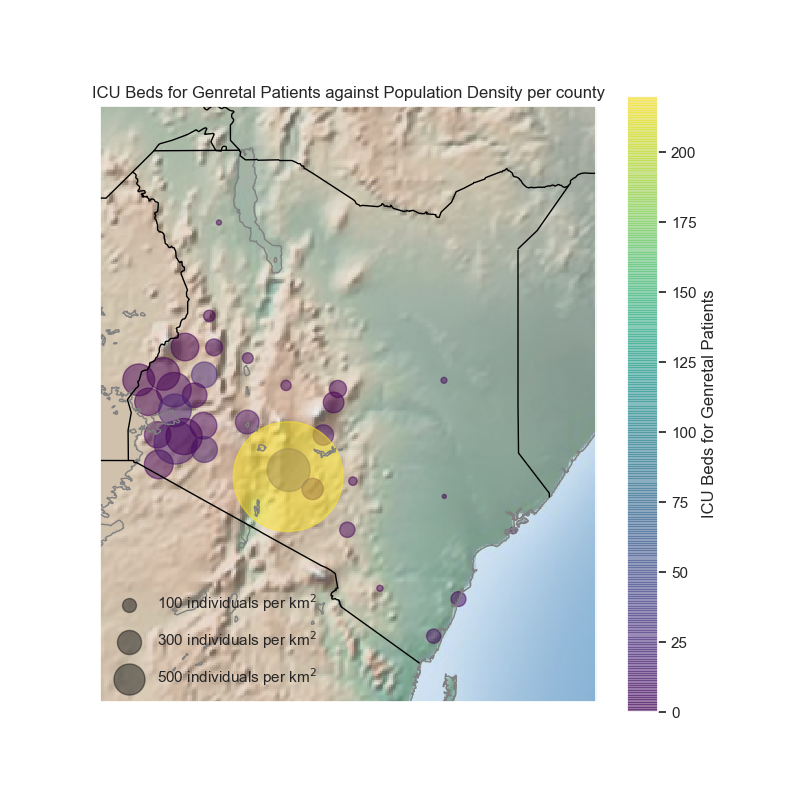
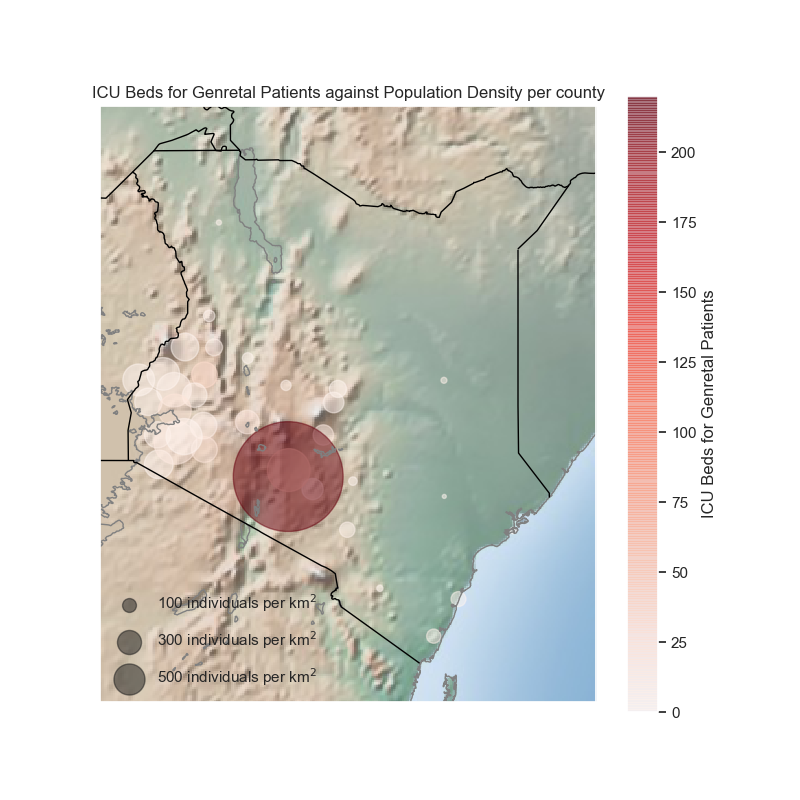
Included county names on plots

diff --git a/kenya_covid_visualizations.py b/kenya_covid_visualizations.py
@@ -7,13 +7,14 @@ sns.set()
 import matplotlib.pyplot as plt
 import pandas as pd
 import numpy as np
+from matplotlib.widgets import TextBox
 
 # Get directory containing epsg file for Basemap import to work
 import os
 os.environ["PROJ_LIB"] = 'C:\\Users\\nderi\\.conda\\pkgs\\proj4-5.2.0-ha925a31_1\\Library\\share'
 from mpl_toolkits.basemap import Basemap
 
-def draw_map(lons, lats, pop_density, var_tested, colorbar_label, directory="", colorbar_scheme=""):
+def draw_map(lons, lats, pop_density, var_tested, colorbar_label, directory="", colorbar_scheme="", counties_below=None):
     ''' 
     Draws scatterplot Basemap map of Kenya and saves plot in given directory path
     
@@ -25,19 +26,18 @@ def draw_map(lons, lats, pop_density, var_tested, colorbar_label, directory="", 
         colorbar_label: String representing the colorbar title
         directory: (Optional) string, directory path for saving file
         colorbar_scheme: (Optional) string, scheme for colorbar
-
+        counties_below: (Optional) numpy values, counties below benchmark
     Returns:
         None
     '''
-
     # Draws background map of Kenya.
     _ = plt.figure(figsize=(8,8))
+
     m = Basemap(projection='lcc', lat_0=0.0236, lon_0=37.9062, width=1E6
     , height=1.2E6, resolution='h')
     m.shadedrelief()
     m.drawcoastlines(color='gray')
     m.drawcountries(color='black', linewidth=1.0)
-    # m.fillcontinents(lake_color="aqua", zorder=0)
 
     # Draw scatterplot on the Basemap figure and include colorbar, legend
     m.scatter(lons, lats, latlon=True, c=var_tested, s=pop_density, cmap=colorbar_scheme, alpha=0.5)
@@ -47,17 +47,32 @@ def draw_map(lons, lats, pop_density, var_tested, colorbar_label, directory="", 
     plt.legend(scatterpoints=1, frameon=False,
                labelspacing=1, loc='lower left')
 
+    # Format counties string and annotate counties below recommended on the basemap projection
+    if len(counties_below) > 0:
+        counties_str_formatted = ""
+        for i in range(len(counties_below)):
+            counties_str_formatted += counties_below[i]
+            if i != len(counties_below) - 1:
+                counties_str_formatted += ", "
+            if i % 3 == 0:
+                counties_str_formatted += '\n'
+        counties = "Counties below recommended:\n" + counties_str_formatted
+        
+        bbox_props = dict(fc='white', ec='green', lw=1, boxstyle='round,pad=0.1', alpha=0.2)
+        plt.annotate(counties, m(39,2.5), xytext=m(40,2.5), fontsize=8,
+             fontname='Arial', color='black', ha='center', va='center',
+            bbox= bbox_props)
+
     # Set plot title and save/show figure
     plt.title(colorbar_label + " against Population Density per county")    
     plt.savefig(directory + colorbar_label + " against Population density")
-
 
 
 if __name__ == "__main__":
     # Extract first dataset
     amenities_dataset = pd.read_excel("Kenya Covid-19 Need Map - Amenities Count.xlsx", sheet_name="Sheet1")
 
-    # Columns of interest in the first dataset
+    # # Columns of interest in the first dataset
     columns_to_visualize = ["# of Hospitals (Level 4,5,6)",
                             "# of Hospital Beds",
                             "# of ICU Beds",
@@ -83,13 +98,14 @@ if __name__ == "__main__":
     # Visualize covid-19 preparedness benchmark per Kenyan county
     for col in preparedness_dataset.columns:
         if col != "County":
+            counties_below = modified_dataset[modified_dataset[col] < 0]["County"].values
             draw_map(modified_dataset["Longitude"].values,
                      modified_dataset["Latitude"].values,
                      modified_dataset["Population Density"].values,
                      modified_dataset[col].values,
                      col,
                      "Covid-19 Preparedness Check in Kenya Visualized\\",
-                     "viridis")
+                     "Reds", counties_below)
 
 
 

diff --git a/README.md b/README.md
@@ -1,21 +1,8 @@
 # Covid-Tracking-in-Kenya-Apr-2020-Basemap-Visualization
-## Description
-I volunteered to help visualize the level of need and preparedness in relation to Covid-19 for one of my acquaintances. Having just learned about Matplotlib's Basemap at that time, I thought to try out some Basemap visualizations.  
+I volunteered to help visualize the level of need and preparedness in relation to Covid-19 for one of my acquaintances. 
+Having just learned about Basemap at that time, I thought to try out some Basemap visualizations. The source code can be found in kenya_covid_visualizations.py and the visualizations in the two different folders. In the first folder, I visualized the number of a certain amenity or facility, e.g. Number of Hospitals, 
+per county. In the second folder, I played around with visualizing whether the number of amenities present met the required benchmark. Datasets and source code used are both included. 
 
-## Datasets used
-Two datasets used: "Kenya Covid 19 Need Map - Amenities Count.xlsx" and "Kenya Covid 19 Need Map - Preparedness Benchmark met.xlsx". 
-
-"Kenya Covid 19 Need Map - Amenities Count.xlsx" contains data per county for variables such as Latitude, Longitude, Population Density, Number of Hospitals per 100k, Number of ICU beds, Number of Ventilators and so on. 
-
-"Kenya Covid 19 Need Map - Preparedness Benchmark met.xlsx" contains data per country like the former, but instead focuses on attainment of the prepardness benchmark for certain variables: Number of Isolation Beds, Number of ICU Beds, Number of Ventilators, Number of ICU beds for General Patients.
-
-## Main procedure
-For each column of interest, I created a Basemap lcc projection of Kenya on which I scattered the longitudes and latitudes of the various counties. For each county, the size of the point represented its population size while the color represented the column of interest number scaled according to the colorbar provided.
-
-For the visualizations where attainment of benchmark was being checked, the colorbar scale goes from negative to positive.
-
-## Sample results
- 
 Below is a sample visualization: 
 ![](https://github.com/induhiu/Covid-Tracking-in-Kenya-Apr-2020-Basemap-Visualization/blob/master/Covid-19%20Preparedness%20Check%20in%20Kenya%20Visualized/ICU%20Beds%20Benchmark%20Remaining%20against%20Population%20density.png)
 
